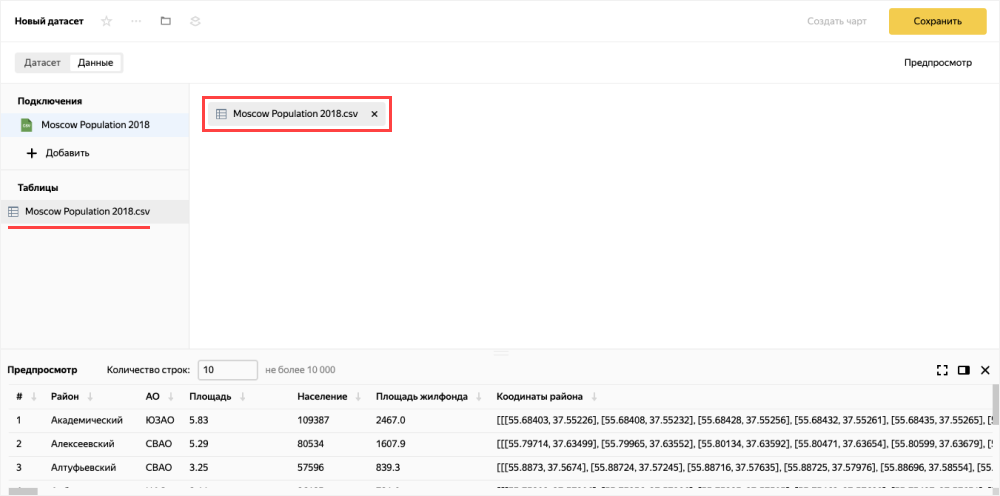
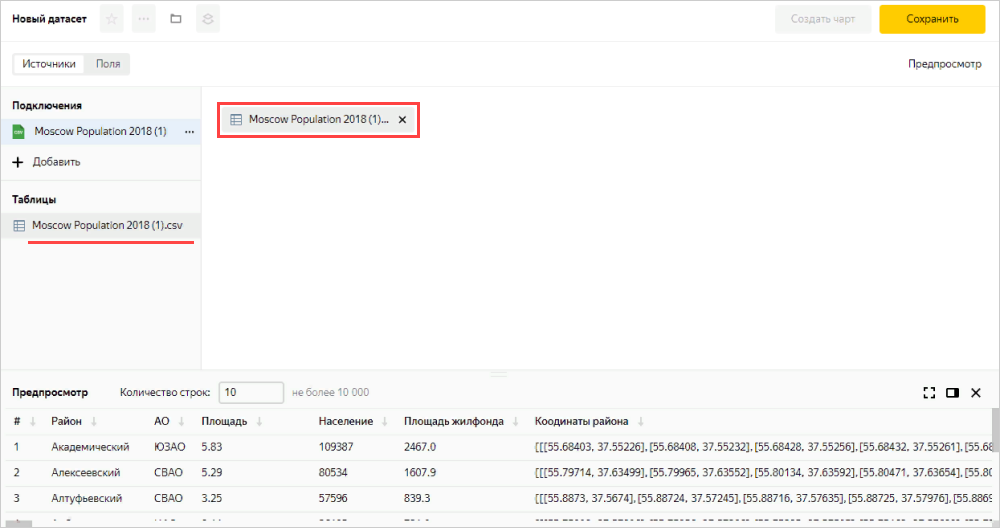
Merge pull request #2149 in CLOUD/docs from fix/DOCSOP-892-fix-solutions-datalens to develop
Squashed commit of the following:

commit 4b6f651e55cb80e77703212af0c39443c430abdb
Author: evgeniya-ch <evgeniya-ch@yandex-team.ru>
Date:   Wed Apr 15 22:59:01 2020 +0700

    fix datalens with screenshot

commit fa6cb2d0b403367d424e481c8e918a93c288b0e2
Author: evgeniya-ch <evgeniya-ch@yandex-team.ru>
Date:   Wed Apr 15 18:27:35 2020 +0700

    fix datalens

diff --git a/ru/solutions/datalens/data-from-csv-to-public-visualization.md b/ru/solutions/datalens/data-from-csv-to-public-visualization.md
@@ -44,11 +44,11 @@
 
 1. Выберите необходимый файл. В данном примере **Moscow Population 2018.csv** ([ссылка на скачивание](https://yadi.sk/d/H4dQKVDpU4Rd8g)).
 1. Дождитесь, когда на экране появится содержимое таблицы.
-1. Нажмите кнопку **Сохранить**.
+1. Нажмите кнопку **Создать**.
 
     ![image](../../_assets/datalens/solution-05/04-save-connection.png)
 
-1. После сохранения нажмите кнопку **Создать датасет**.
+1. После создания подключения нажмите кнопку **Создать датасет**.
 
     ![image](../../_assets/datalens/solution-05/05-create-dataset.png)
 
@@ -58,7 +58,7 @@
 
     ![image](../../_assets/datalens/solution-05/06-drag-table.png)
 
-1. Перейдите на вкладку **Датасет**.
+1. Перейдите на вкладку **Поля**.
 
     ![image](../../_assets/datalens/solution-05/07-dataset-tab.png)
 
@@ -70,7 +70,7 @@
 
     ![image](../../_assets/datalens/solution-05/09-measures.png)
     
-1. Для поля **Коодинаты района** измените тип данных на **Геополигон**.
+1. Для поля **Координаты района** измените тип данных на **Геополигон**.
 
     ![image](../../_assets/datalens/solution-05/10-geopoligon.png)
 
@@ -90,11 +90,11 @@
 
     ![image](../../_assets/datalens/solution-05/13-choose-map.png)
 
-1. Добавьте на карту полигоны районов. Для из раздела **Измерения** перетащите поле **Координаты** в секцию **Геополигоны**.
+1. Добавьте на карту полигоны районов. Для этого из раздела **Измерения** перетащите поле **Координаты** в секцию **Геополигоны**.
 
     ![image](../../_assets/datalens/solution-05/14-use-coordinates.png)
 
-1. Измените цвета районов относительно показателя населения. Для из раздела **Показатели** перетащите поле **Население** в секцию **Цвета**.
+1. Измените цвета районов относительно показателя населения. Для этого из раздела **Показатели** перетащите поле **Население** в секцию **Цвета**.
 
     ![image](../../_assets/datalens/solution-05/15-use-measure.png)
 
